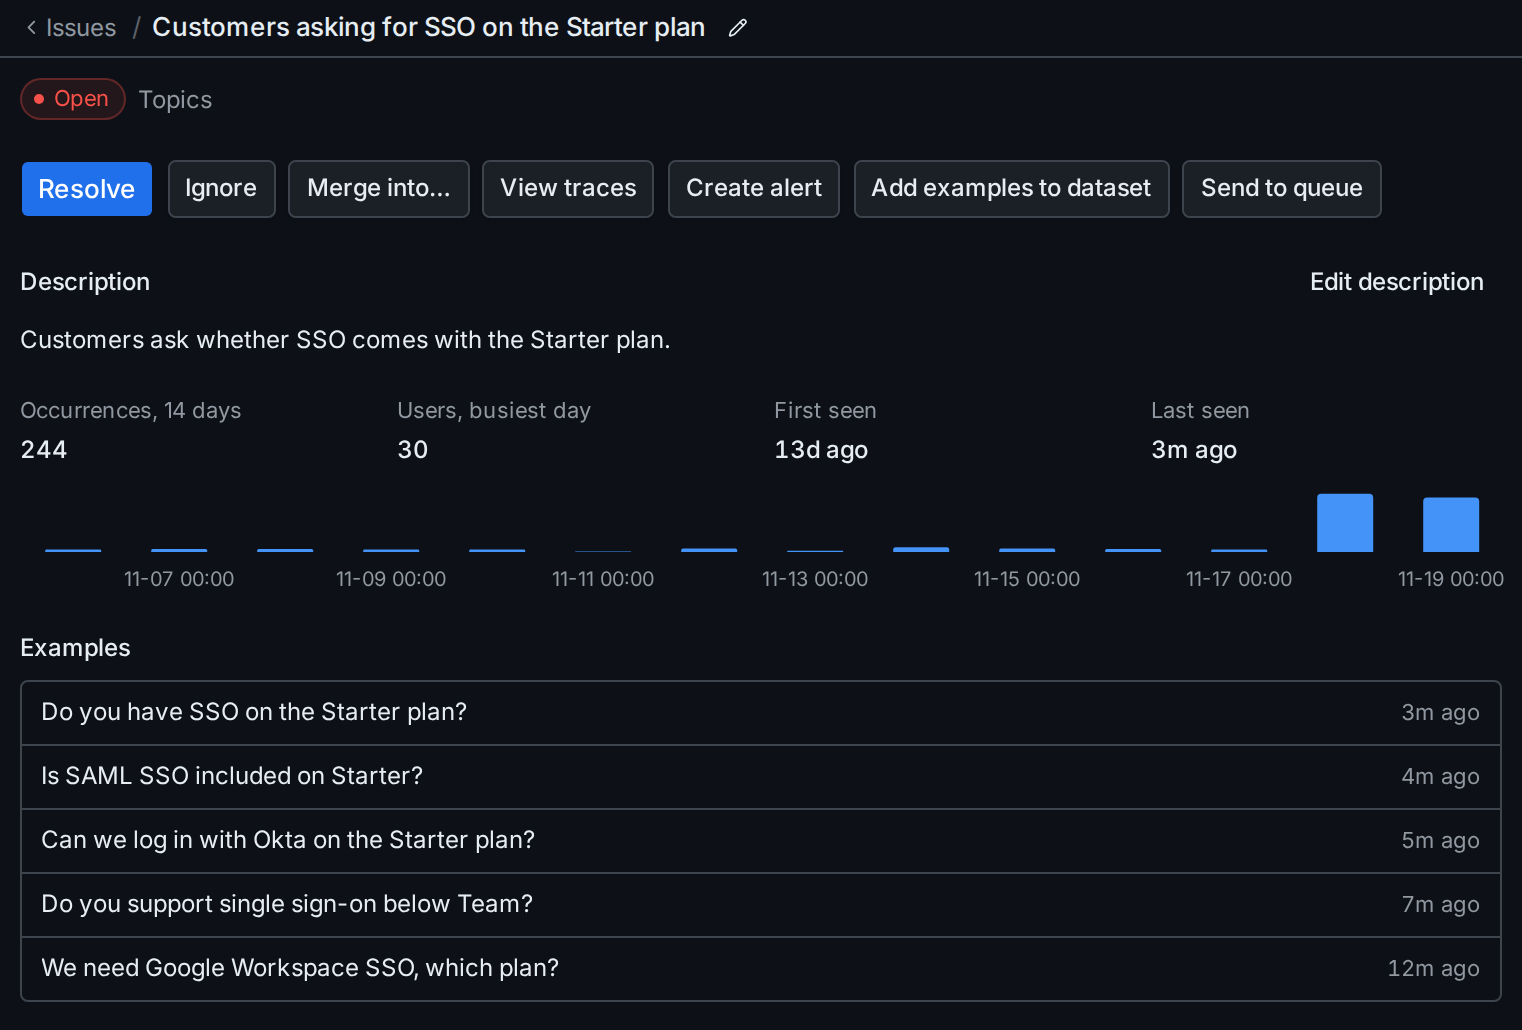
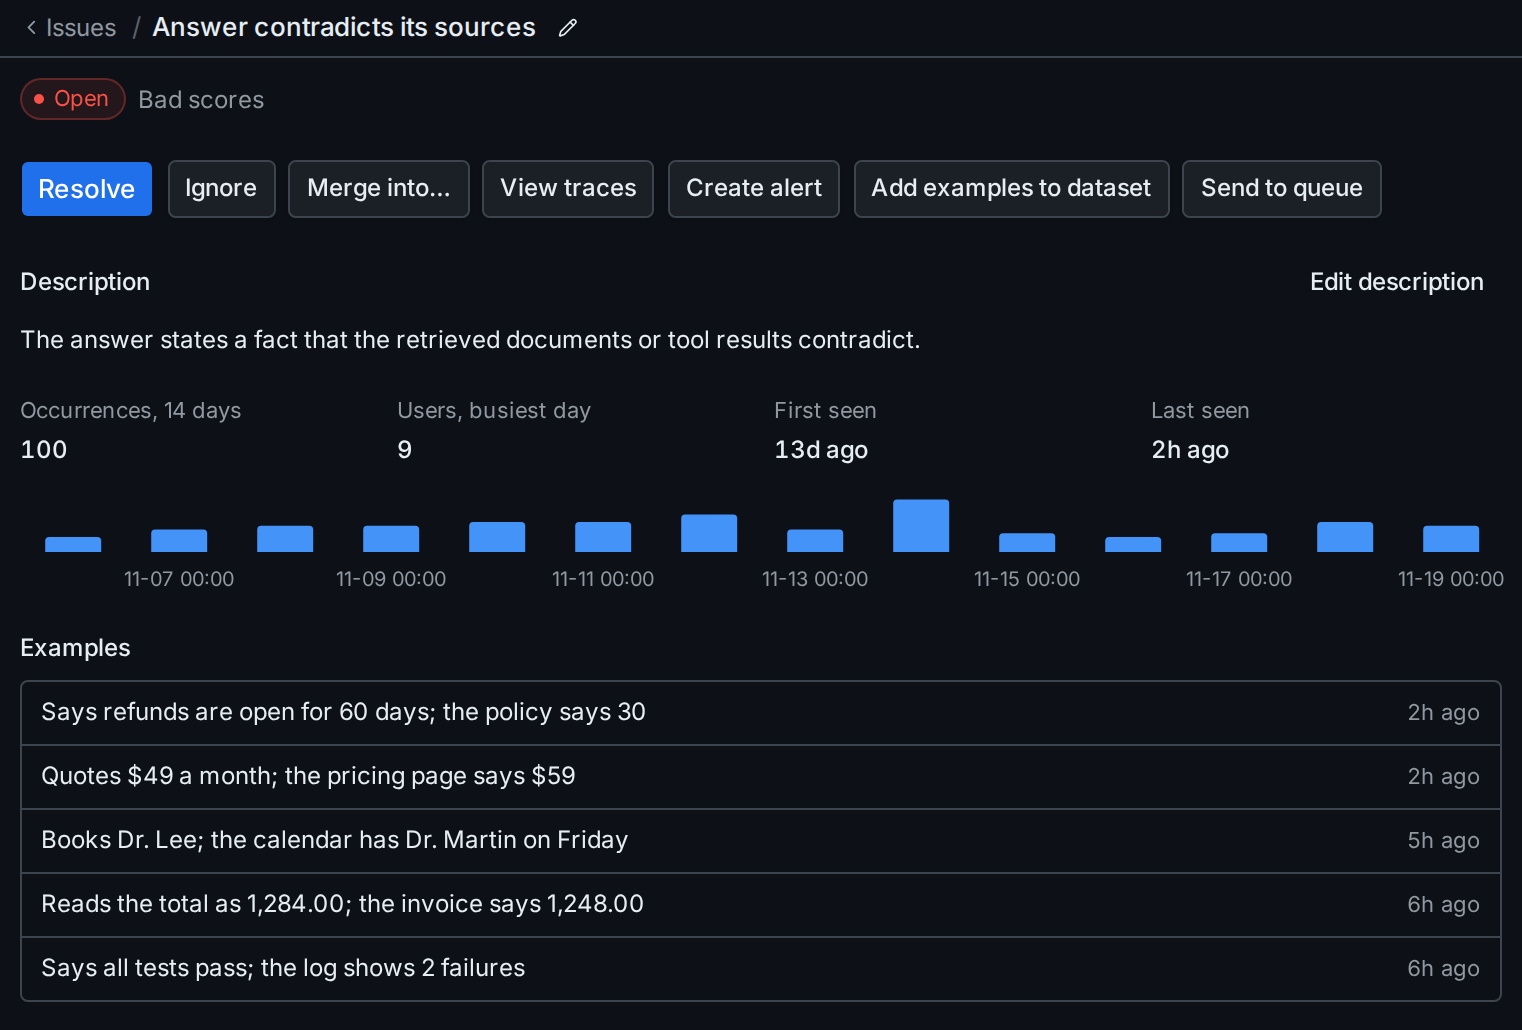
Share the Issues and Prompts pictures across the stories

diff --git a/docs/mvp-decisions.md b/docs/mvp-decisions.md
@@ -834,6 +834,7 @@ Decisions of track W (`docs/plans/docs-site/README.md`), numbered `D-W-<n>` (`do
 | D-W-24 | Hero scenarios | **The hero shows four example traces behind labelled tabs: Support agent, Coding agent, Voice agent and Document extraction (the voice agent replaced M12's research agent on 2026-11-24, user: research's cost point overlapped the others and fewer buyers build it; voice agents sell latency). Each is a hand-written trace of the web UI's mock dataset with its own screenshot and a one-line caption; the first picture loads with the page, the others when their tab is opened (the user, 2026-11-24).** One support bot made cetra look like a support-bot tool; the tab names say what it is used for even to a visitor who never clicks. Rejected: a carousel with dots (the dots say nothing and few visitors pass the first slide), a scroll strip with the next card peeking (it costs the hero its full width), and auto-advancing slides. Showing one scenario per product chapter stays possible later. Amends design §6. |
 | D-W-25 | Story switcher | **Every homepage picture follows one of the four stories of D-W-24. The hero's tabs and a chip row above each chapter picture switch them all at once, and the choice is kept in the URL (`?story=`). Each story's pictures show hand-written mock objects tied to its hero trace: an issue, an alert rule, a prompt, a dashboard, an annotation queue and an assistant conversation that answers then builds a dashboard (the user, 2026-11-24).** One story per page reads as one product told through the reader's own use case. Rejected: tabs per section (six separate choices and a busy page), hero-only tabs (out of reach further down), a sticky bar, and a global story mode in the mocks (it would hide the other stories from the demo). Design §12, milestones M13–M15. |
 | D-W-26 | A picture per story | **Each homepage picture is chosen for its story, and each story gets its own mock project (the user, 2026-11-24 and 2026-11-25).** The four pictures of a chapter looked alike, since the layout repeated and the generic mock data dominated. The Trace and Evaluate chapters show a different page per story (a support session, a coding transcript, a voice turn with its audio, an invoice batch; a queue, a check, an LLM judge, an experiment); Explore, Issues, Prompts and Alerts keep one page with each story's data, since four pages in every chapter would be too much for a viewer. The pictures of a story follow one loop (trace, the assistant's finding, the issue, the evaluation, the prompt fix, the alert), and every number they show is backed by the story project's data. Each story's project has generated traffic shaped like it (Lever A, M16). Design §13. |
+| D-W-27 | Shared chapter pictures | **The Explore, Issues, Prompts and Alert chapters show one picture for every story, without the story picker; Trace and Evaluate keep one per story (the user, 2026-11-25).** In those four chapters the page and its layout were the same in every story, so switching stories changed a few words and read as the same picture four times. The shared pictures use generic data that speaks to every kind of agent (an issue whose examples come from all four stories), or the support story's (Prompts). Rejected: keeping a picture per story, and showing a different facet per story (a Slack message, a rule list, a chart), which costs more pictures to keep true. Amends D-W-26; design §13. |
 
 ## Track IC — Issue clustering
 

diff --git a/docs/website/00-design.md b/docs/website/00-design.md
@@ -343,6 +343,12 @@ Rules for these pictures:
 
 Answers of 2026-11-25 on what the UI can't show yet (the user): the playground compares prompt versions side by side, an `issue_occurrences` alert rule gets a chart, and the trace list gets a total of the selected or filtered rows; the "App UI changes on main" session builds the three, and the pictures that need them wait for them on main. The coding Evaluate picture shows the online rule page of the `tests_pass` check with its hourly pass-rate line (no daily chart). Planner's choices, not objected to: the issue pictures show the kind through the source's name ("Topics", "Errors", "Bad scores") and counts, not percentages; the voice judge picture is the evaluator's Configuration tab with a test result on one call; the coding cost rule's step happens within the chart's last 24 hours; the assistant's actions are the Filter card's "Open in traces" and the Dashboard card's "Open in dashboard editor"; the hero pictures stay as they are.
 
+Answers of 2026-11-25, evening (the user, after the M19 retake; D-W-27): the Explore, Issues, Prompts and Alert pictures looked too much alike across the stories. These chapters now show **one picture shared by every story**, without the story picker; Trace and Evaluate keep a picture per story. The table above stays as the record of the per-story pictures; for the shared chapters it is replaced by:
+- **Issues:** a new bad-score issue in the support project, "Answer contradicts its sources", generic across the agent kinds: five examples from a refund policy, a price, a booking, an invoice total and a test log, and occurrences on every day of the 14-day chart.
+- **Prompts:** the support picture (support-reply v2 and v3 side by side).
+- **Explore:** one new, more generic question, answered from SQL and ending on the dashboard card only (no filter card). The question is the user's pick among the proposed options.
+- **Alert:** new rules with generic data; the rule is the user's pick among the proposed options.
+
 ### Milestones
 
 - **M16 A mock project per story.** The three new projects in the mocks, a generation profile per project, the large mock serving each project its own dataset, the story objects moved to their projects, and the existing story screenshots retaken in their projects. Depends on M15. The support project's generated traces keep today's draws; tests that read a coding, voice or extraction hero from the support dataset move to its story's profile.
